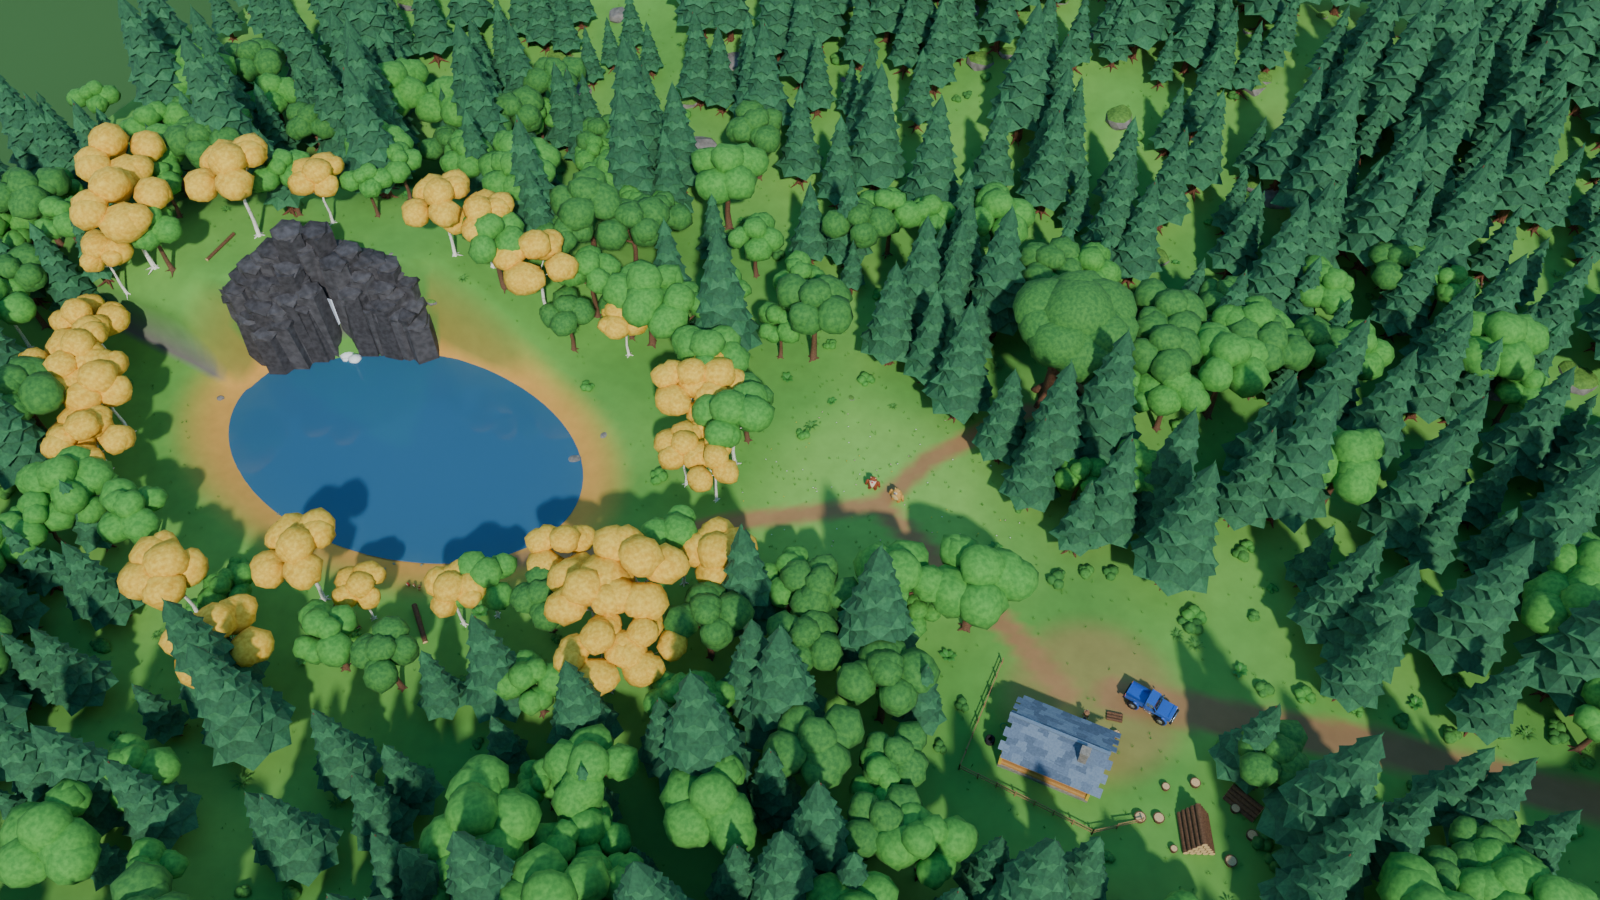
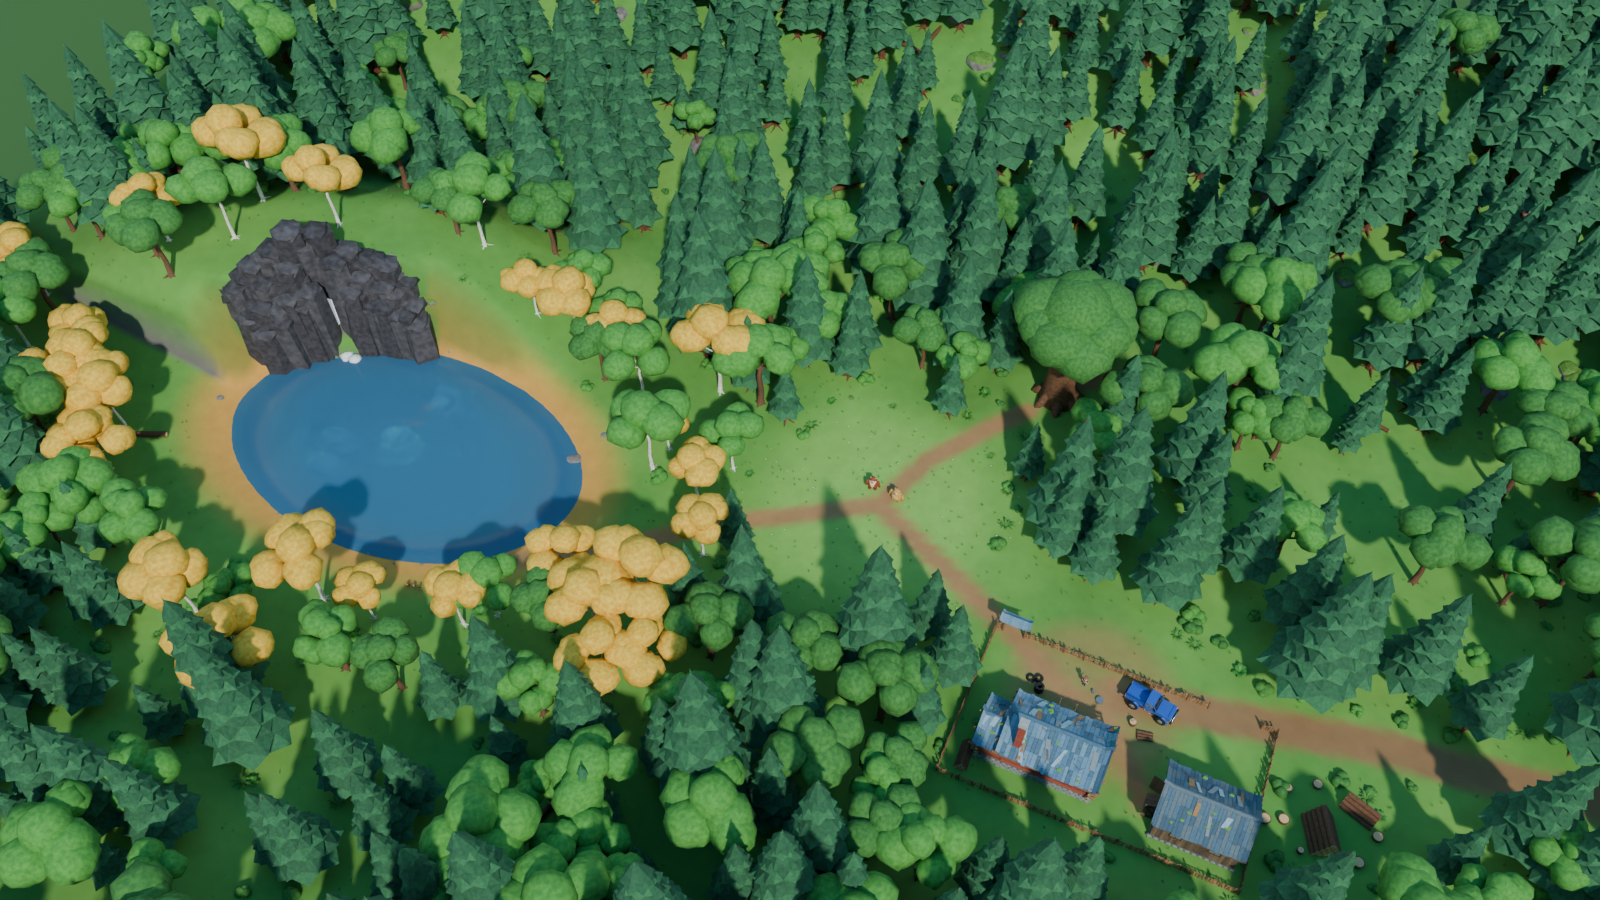
bears/blender: full-quality acceptance renders, refreshed check sheets and previews
Claude-Session: https://claude.ai/code/session_01SAiEPLmy8PFn9J7ZCur5Tb

diff --git a/bears/blender/README.md b/bears/blender/README.md
@@ -6,6 +6,16 @@
 
 ![其他相机：木屋正面、院子和皮卡、湖边石崖瀑布、涂涂萝卜头蹦蹦、空地上的熊大熊二](preview_views.jpg)
 
+木屋和仓库验收图（`acceptance/`）：
+
+![木屋正面](acceptance/Acc_01_House_Front.jpg)
+![木屋室内俯视](acceptance/Acc_06_House_Interior_Top.jpg)
+![院落总览](acceptance/Acc_17_Yard_Overview.jpg)
+
+湖底预览（`lake_checks/`，低材质，湖底形状为推测，见 `LAKE_AUDIT.md`）：
+
+![湖底岩石区](lake_checks/Lake_06_Rock_Group_NoWater.jpg)
+
 ## 交付文件
 
 | 文件 | 说明 |
@@ -20,6 +30,8 @@
 | `render_acceptance.py` | 渲染木屋和仓库的验收图（`Acceptance_Cameras` 里的 17 台相机） |
 | `acceptance/` | 验收图：木屋四面、屋顶近景、室内俯视、厨房、卧室、卫生间、仓库四面、仓库内部、储物细节、院落总览 |
 | `HOUSE_WAREHOUSE_AUDIT.md` | 木屋和仓库修正前的参考读取情况、版本冲突和错误对照表 |
+| `reopen_check.py` | 重新打开 .blend 后的完整检查：缺失贴图、重复物体、家具悬空/穿插、门洞被挡 |
+| `LAKE_AUDIT.md`、`lake_layout_diagrams.py`、`lake_checks/` | 湖泊和湖底：原片读取情况、结构草图（平面等深线、剖面）、低材质预览 |
 | `make_check_sheets.py` | 把检查视图拼成检查图（需要 Pillow） |
 | `checks/` | 检查图：人物正侧背、皮卡四视图、木屋四视图、室内平面（带标注）、地图俯视 |
 | `REFERENCE_NOTES.md` | 参考清单、冲突取舍、比例与布局（.blend 里的文本块 `Reference_Notes.md` 也是这份内容） |
